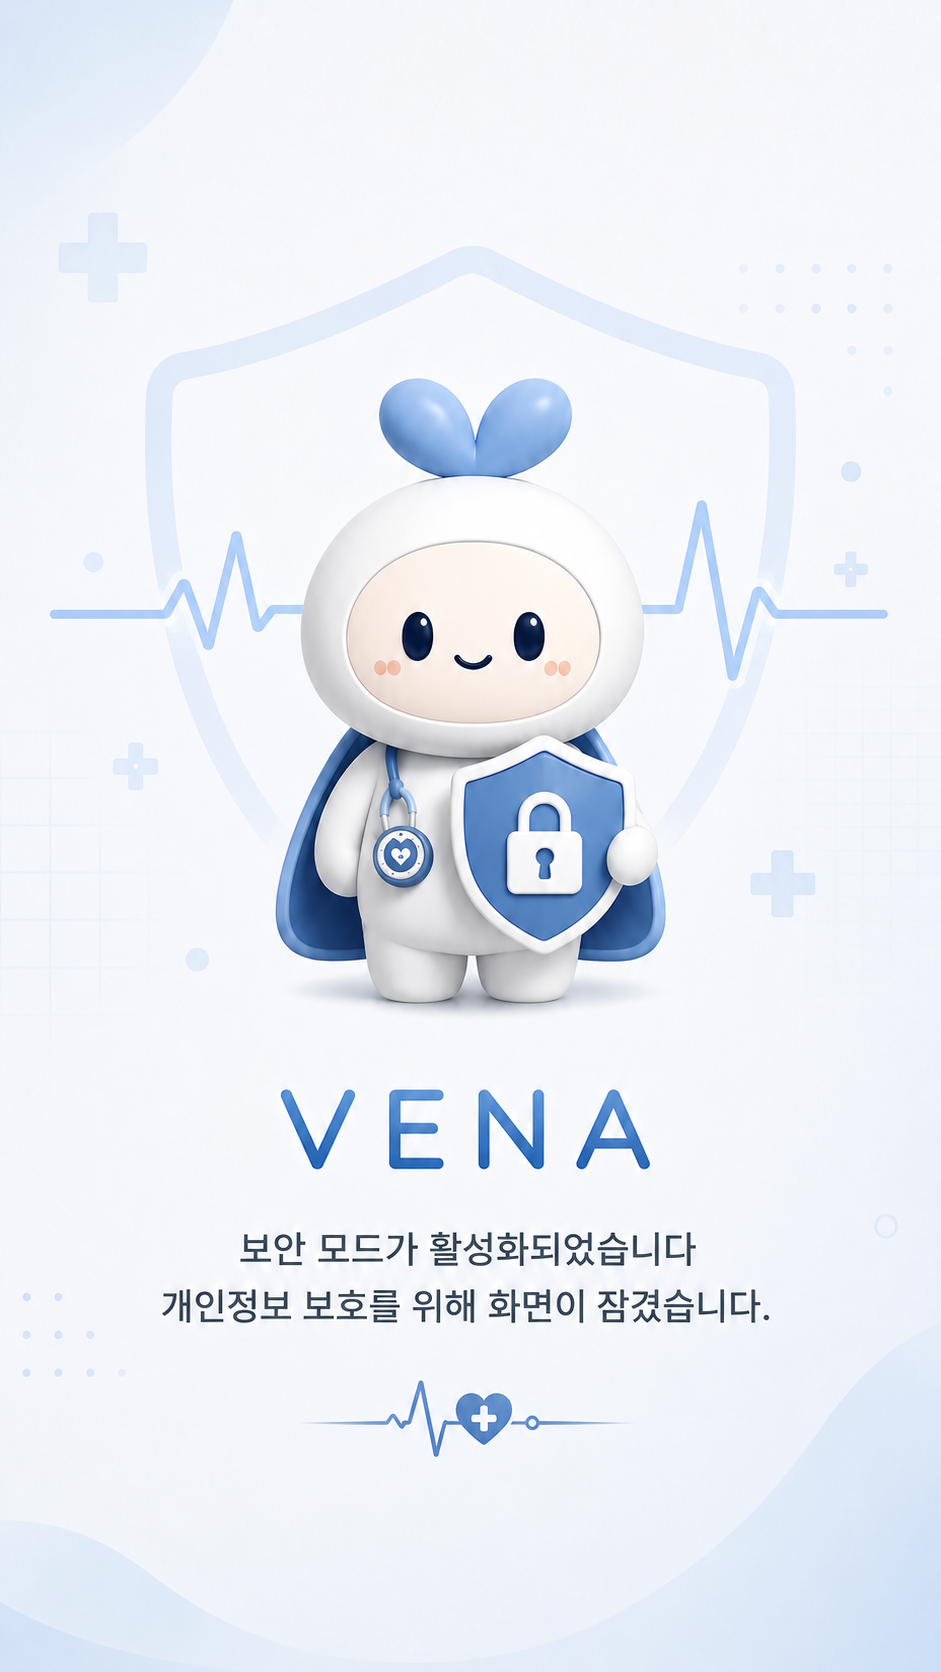
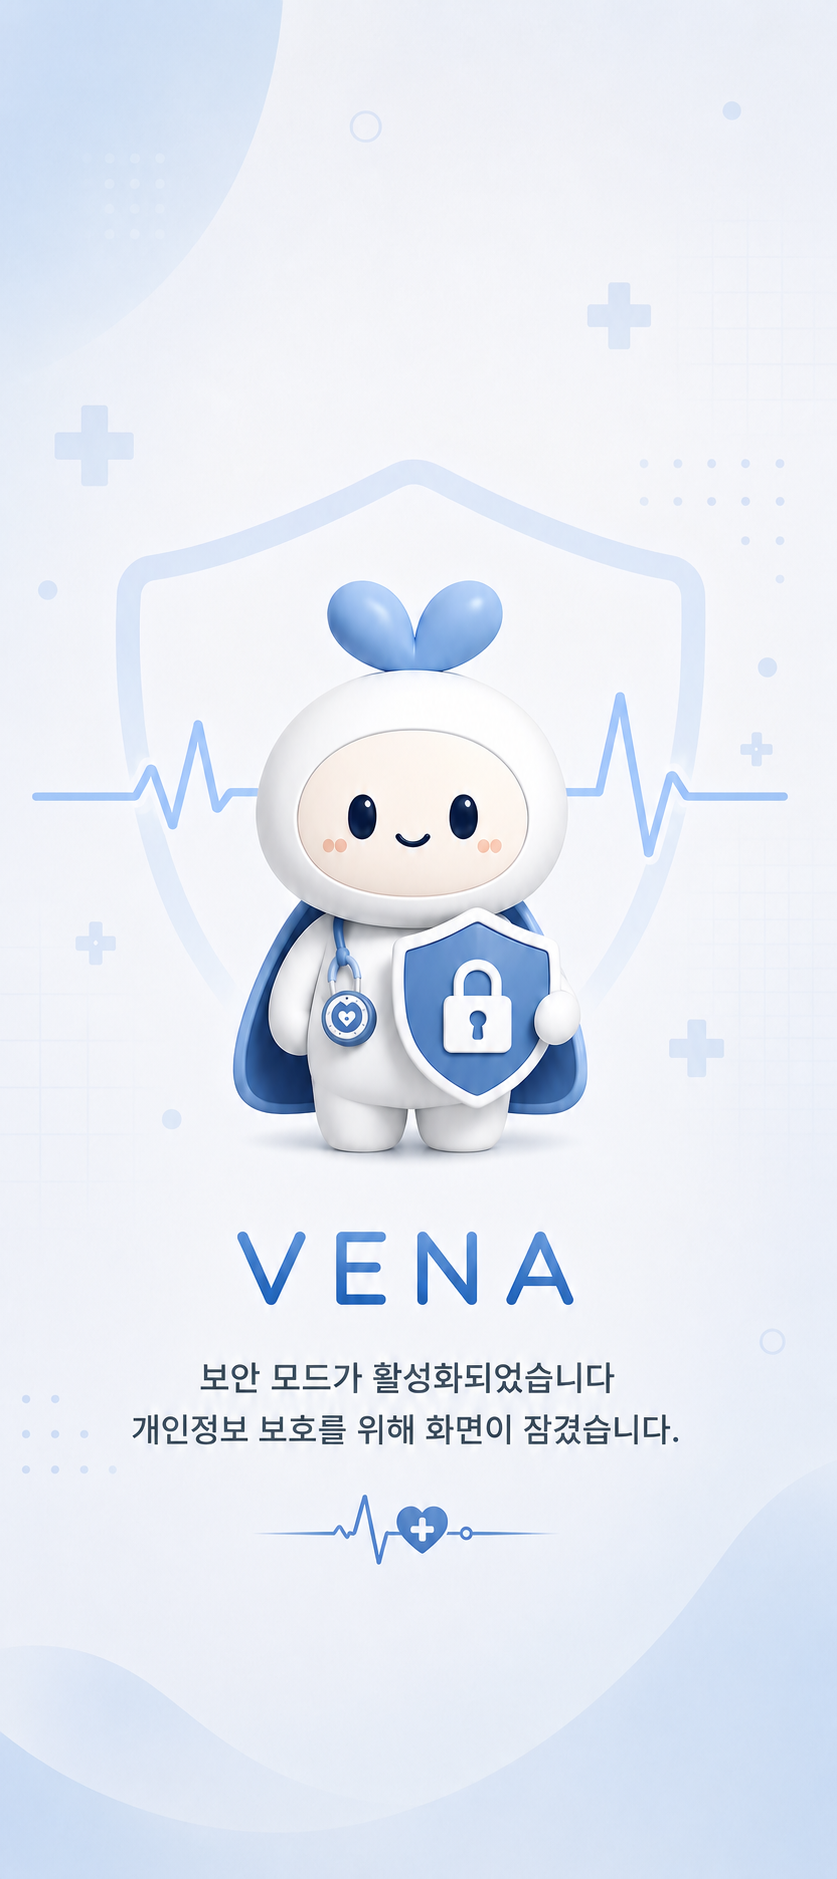
프라이버시 스크린 보미이미지 여백 채움

diff --git a/lib/core/security/screen_protection/privacy_screen.dart b/lib/core/security/screen_protection/privacy_screen.dart
@@ -11,18 +11,15 @@ class PrivacyScreen extends StatelessWidget {
   @override
   Widget build(BuildContext context) {
     return const ColoredBox(
-      color: Color(0xFFFFF8F8), // 휴대폰과 비율이 다를 때 남는 공간 채우기
+      color: Color(0xFFF5F8FF),
       child: SizedBox.expand(
-        child: SafeArea(
-          child: Center(
-            child: Image(
-              image: AssetImage(_assetPath),
-              fit: BoxFit.contain, // 전체 비율 유지, 화면 안에 맞추기
-              width: double.infinity,
-              height: double.infinity,
-              filterQuality: FilterQuality.high,
-            ),
-          ),
+        child: Image(
+          image: AssetImage(_assetPath),
+          fit: BoxFit.cover,
+          alignment: Alignment.center,
+          width: double.infinity,
+          height: double.infinity,
+          filterQuality: FilterQuality.high,
         ),
       ),
     );
